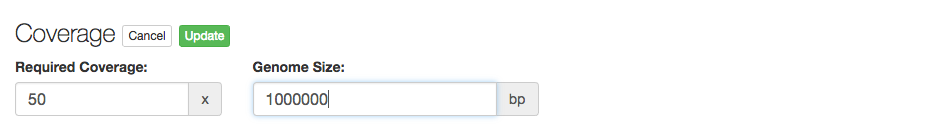
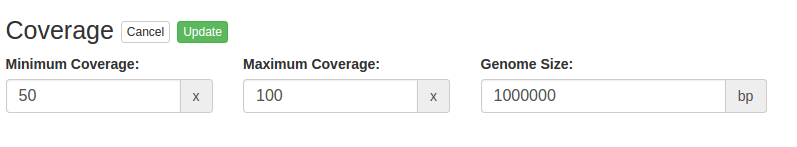
updated doc with max coverage

diff --git a/doc/user/user/project/index.md b/doc/user/user/project/index.md
@@ -165,7 +165,8 @@ To enable an automated pipeline, check the *Automatically assemble data uploaded
 
 IRIDA can calculate the coverage of uploaded sequencing data for a sample.  To enable this a genome size and expected coverage must be set for a project in the project settings page.
 
-* **Required Coverage** - The coverage expected by any sequencing data being uploaded to the project.
+* **Minimum Coverage** - The minimum coverage expected by any sequencing data being uploaded to the project.
+* **Maximum Coverage** - The maximum coverage expected by any sequencing data being uploaded to the project.
 * **Genome Size** - The size of the genome of the organism being targeted by the project.
 
 To edit coverage settings, click the `Edit` button.
